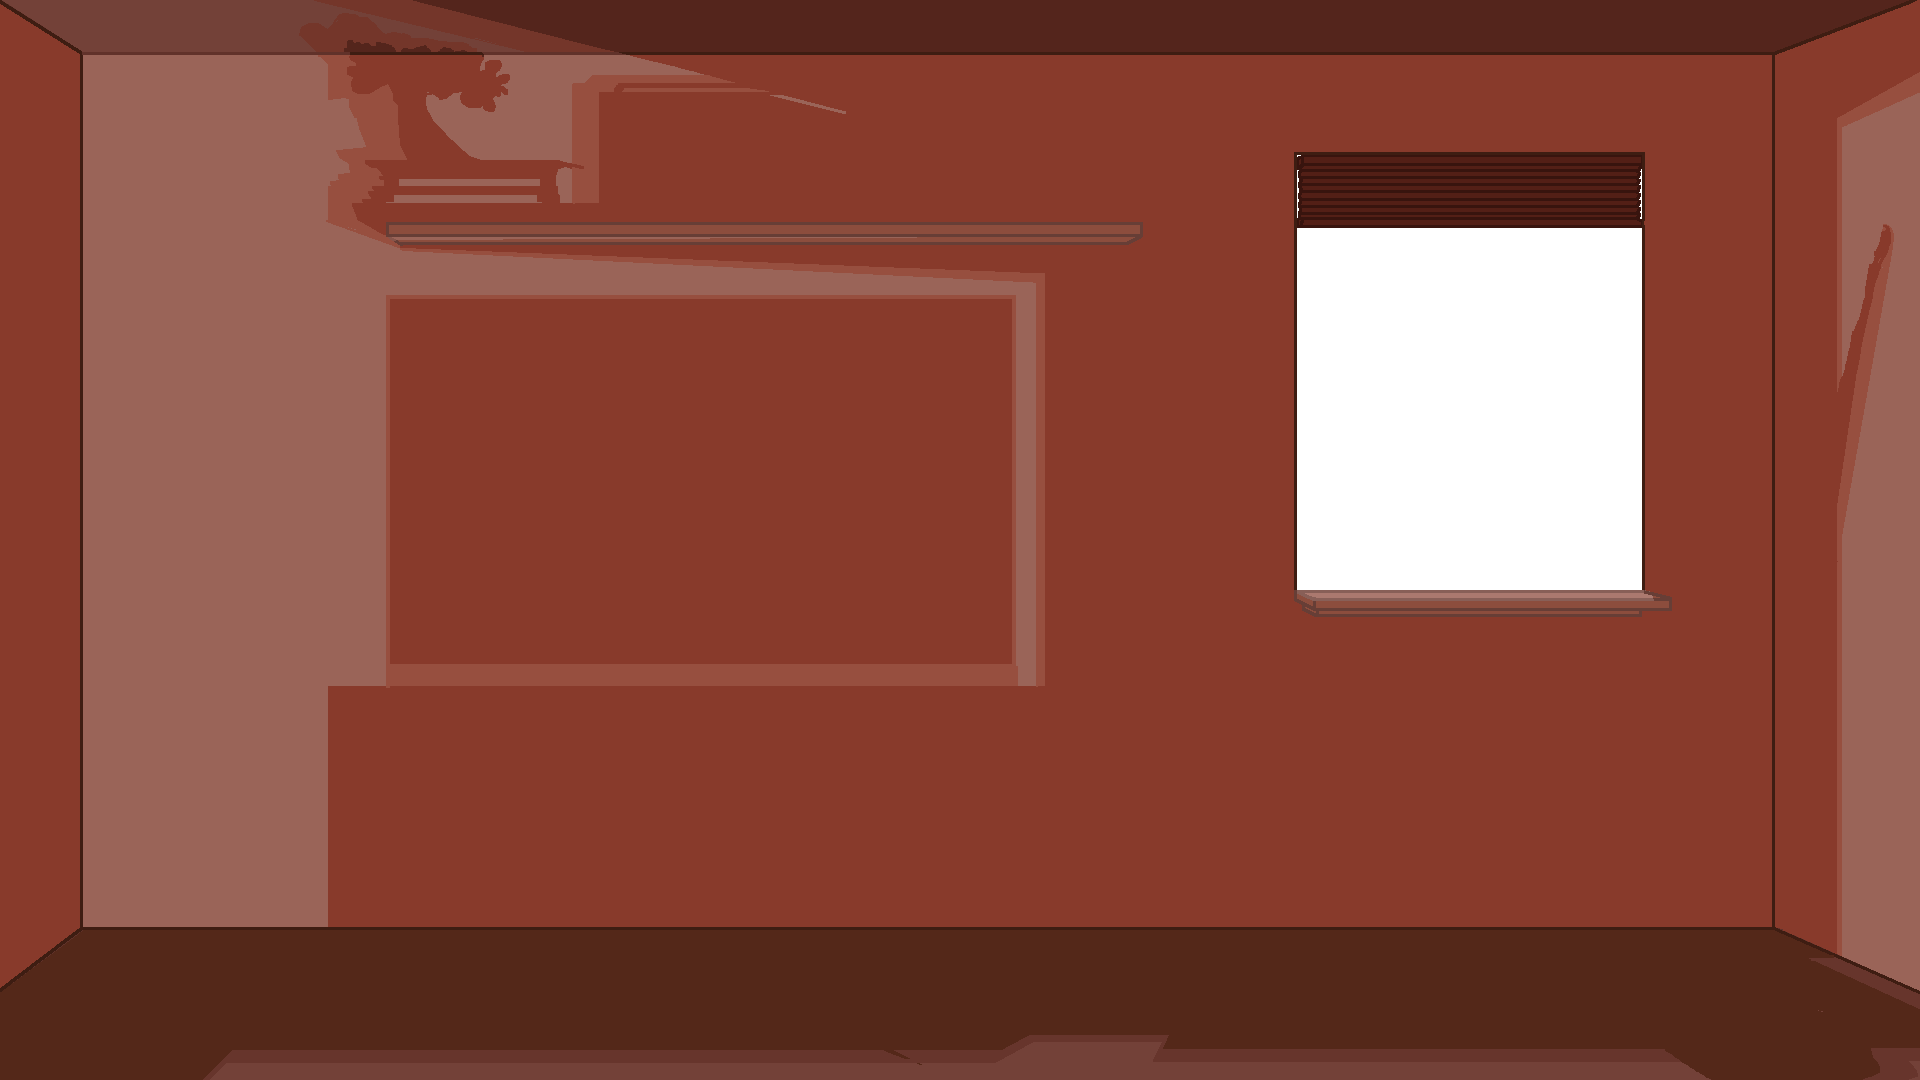
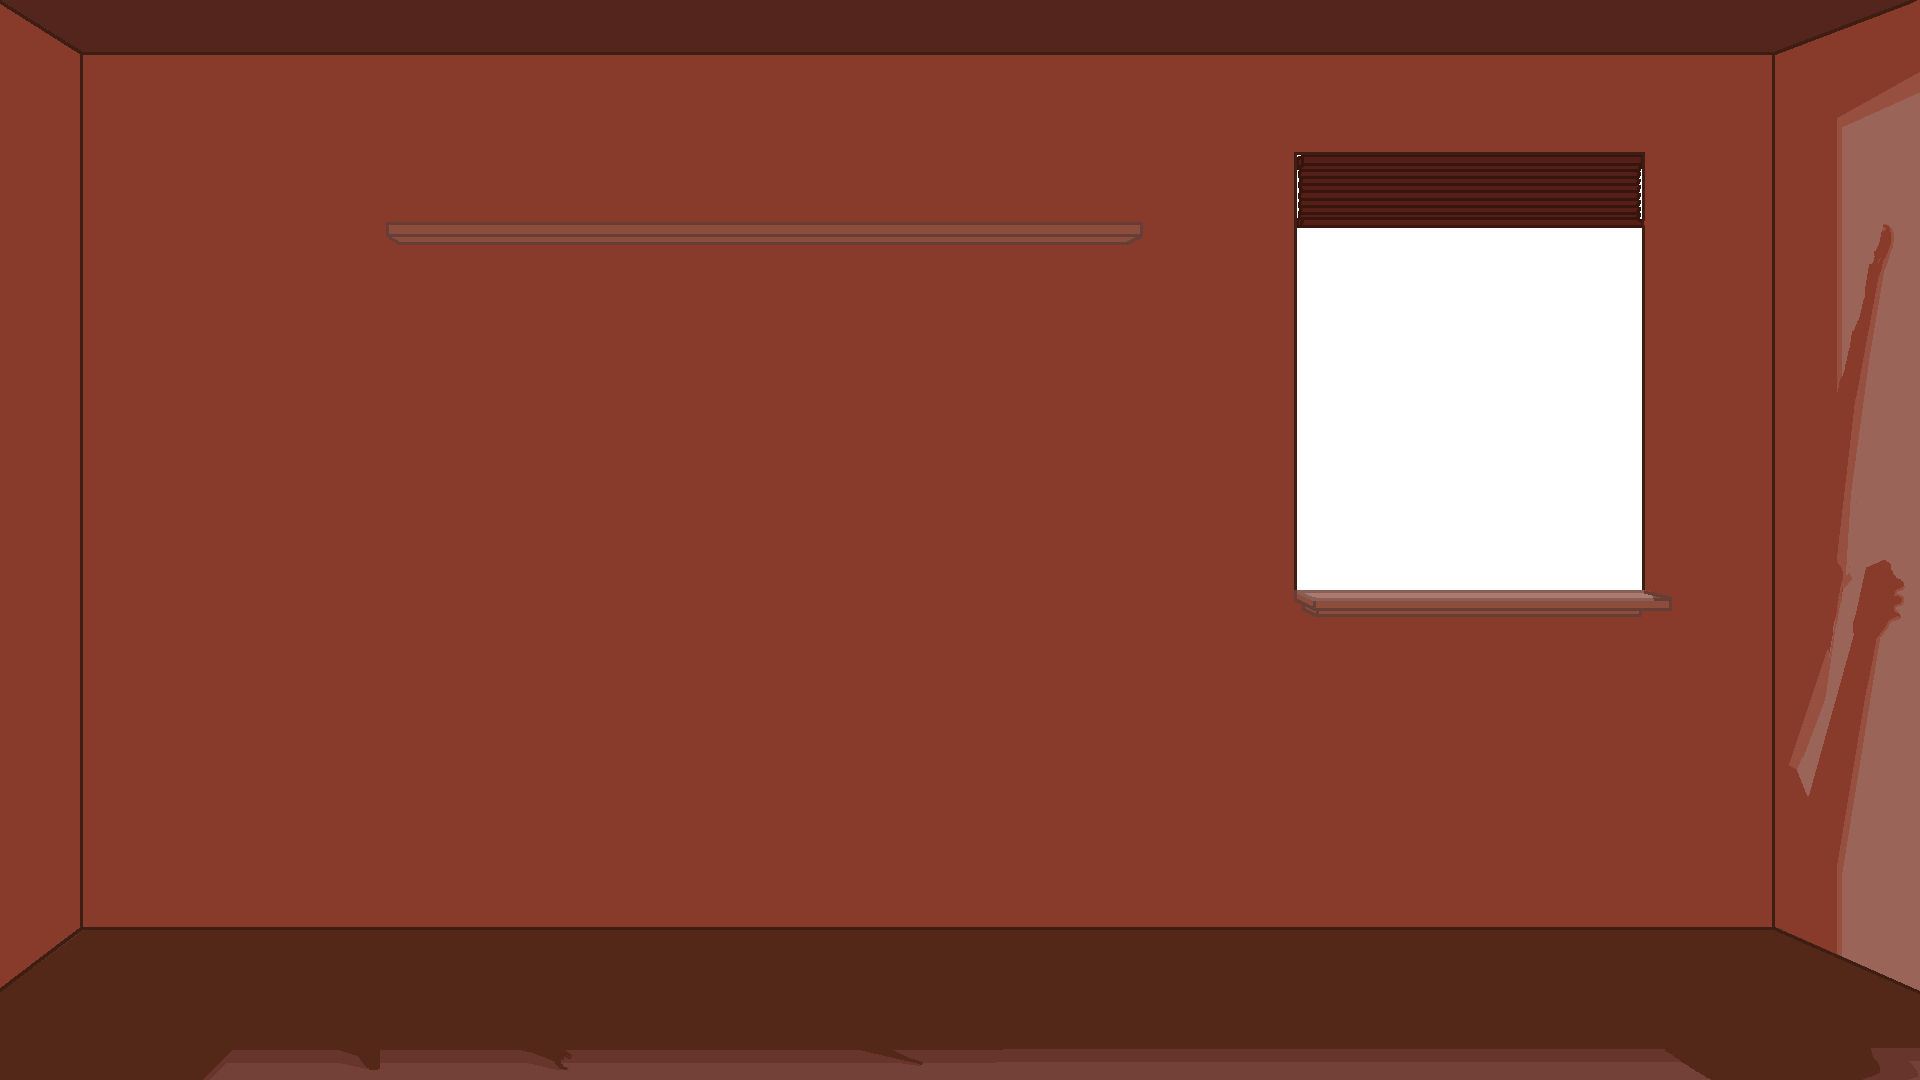
Updated background art

Changed region(s): [[0.0, 0.0, 0.5625, 0.8556], [0.9375, 0.5194, 1.0, 0.7639], [0.5312, 0.9472, 0.5938, 0.9778]]

diff --git a/src/data.js b/src/data.js
@@ -73,7 +73,7 @@ let textSources = {
     contribution: 'Morse code machine functionality, level architecture, architecture for generating encoded messages, UI functionality, various visuals ex. morse code box.',
     link: 'https://globalgamejam.org/2018/games/transmission-received',
     linkTitle: 'Check it out here!',
-    title: "Transmission Recieved",
+    title: "Transmission Received",
   },
   'pie': {
     description: "This was a project made in Unity during a 42 hour game jam with a team of 5 people. In the game your objective is to get to the end objective, shown with a guide arrow, using your grappling hook to get there. You can't touch the ground, forcing the player to use the grappling hook to traverse the level. The game's idea was inspired heavily by Cluster Truck.",
